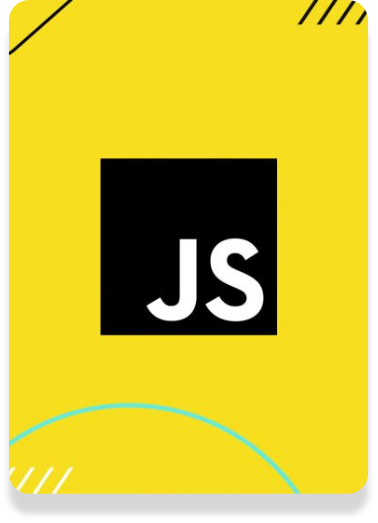
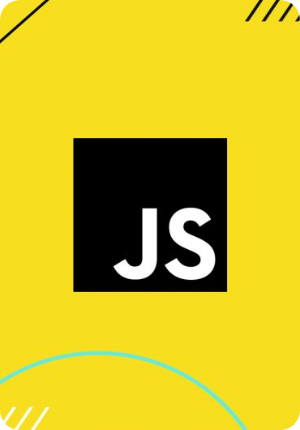
blog posts page

Changed region(s): [[0.0, 0.0, 1.0, 1.0], [0.24, 0.3023, 0.78, 0.6953]]

diff --git a/components/sections/blog/BlogSection.tsx b/components/sections/blog/BlogSection.tsx
@@ -27,12 +27,13 @@ function BlogSection() {
 
   return (
     <section className={styles.container} id="blog" ref={ref}>
-      <div className={styles.inContainer}>
-        <div className={styles.header}>
-          <h1>Blog</h1>
-          <h1>Posts</h1>
-        </div>
+      <div className={styles.header}>
+        <h1>Blog</h1>
+        <h1>Posts</h1>
+      </div>
+      <div className={styles.swipeContainer}>
         <Swiper
+          initialSlide={1}
           effect={"coverflow"}
           grabCursor={true}
           centeredSlides={true}
@@ -47,47 +48,53 @@ function BlogSection() {
           pagination={true}
           modules={[EffectCoverflow, Pagination]}
           className="mySwiper"
-          style={{ paddingBottom: 30 }}
+          style={{ paddingBottom: 70 }}
         >
-          <SwiperSlide style={{ width: "30%", display:"flex", justifyContent:"center", borderRadius:"50%" }}>
+          <SwiperSlide
+            style={{
+              width: "30%",
+              display: "flex",
+              justifyContent: "center",
+              borderRadius: "50%",
+            }}
+          >
             <div className={styles.box}>
               <div style={{ display: "flex", justifyContent: "center" }}>
-                <Image
-                  alt=""
-                  src="/blog/js-banner.png"
-                  width={350}
-                  height={455}
-                />
+                <Image alt="" src="/blog/react.png" width={300} height={400} />
                 <div className={styles.inbox}>
                   <h2>Mastering Javascript</h2>
                 </div>
               </div>
             </div>
           </SwiperSlide>
-          <SwiperSlide style={{ width: "30%", display:"flex", justifyContent:"center", borderRadius:"50%" }}>
+          <SwiperSlide
+            style={{
+              width: "30%",
+              display: "flex",
+              justifyContent: "center",
+              borderRadius: "50%",
+            }}
+          >
             <div className={styles.box}>
               <div style={{ display: "flex", justifyContent: "center" }}>
-                <Image
-                  alt=""
-                  src="/blog/next.png"
-                  width={300}
-                  height={400}
-                />
+                <Image alt="" src="/blog/next.png" width={300} height={400} />
                 <div className={styles.inbox}>
                   <h2>Mastering Javascript</h2>
                 </div>
               </div>
             </div>
           </SwiperSlide>
-          <SwiperSlide style={{ width: "30%", display:"flex", justifyContent:"center", borderRadius:"50%" }}>
+          <SwiperSlide
+            style={{
+              width: "30%",
+              display: "flex",
+              justifyContent: "center",
+              borderRadius: "50%",
+            }}
+          >
             <div className={styles.box}>
               <div style={{ display: "flex", justifyContent: "center" }}>
-                <Image
-                  alt=""
-                  src="/blog/js-banner.png"
-                  width={350}
-                  height={455}
-                />
+                <Image alt="" src="/blog/react.png" width={300} height={400} />
                 <div className={styles.inbox}>
                   <h2>Mastering Javascript</h2>
                 </div>

diff --git a/components/sections/blog/blog.module.css b/components/sections/blog/blog.module.css
@@ -6,11 +6,12 @@
 
   padding-top: 115px;
   margin-bottom: 1px;
+  overflow-y: auto;
   padding-left: 10%;
   padding-right: 10%;
 }
 
-.inContainer {
+.swipeContainer {
   /* background:red; */
   padding: 20px 50px 20px 50px;
   height: 100%;
@@ -19,6 +20,7 @@
 .header {
   display: flex;
   justify-content: center;
+  margin-top: 20px;
 }
 
 .header > h1 {
@@ -45,10 +47,10 @@
 }
 
 .inbox {
-  background: rgba(249, 249, 249, 0.5);
+  background: rgba(255, 255, 255, 0.7);
   position: absolute;
-  bottom: 25px;
-  width: 334px;
+  bottom: 0px;
+  width: 300px;
   height: 60px;
   display: flex;
   align-items: center;
@@ -57,11 +59,38 @@
 }
 
 .inbox h2 {
-  color: #707070;
+  color: black;
 }
 
 @media only screen and (max-width: 767px) {
   .container {
     padding-top: 65px;
+    padding-left: 5px;
+    padding-right: 5px;
+    display: flex;
+    justify-content: center;
+    flex-direction: column;
+  }
+  .swipeContainer {
+    padding: 20px;
+    height: max-content;
+  }
+
+  .box img {
+    width: 200px;
+    height: 300px;
+  }
+  .inbox {
+    border-radius: 0 0 12px 12px;
+    width: 200px;
+    height: 60px;
+  }
+  .inbox h2 {
+    font-size: 1.2rem;
+  }
+  .header {
+    margin-top: 0px;
+    position: relative;
+    bottom: 20px;
   }
 }

diff --git a/app/globals.css b/app/globals.css
@@ -29,6 +29,9 @@
     width: 45px !important;
     height: 45px !important;
   }
+  .swiper{
+    padding-bottom: 60px !important;
+  }
 }
 
 [data-theme="dark"] body {
@@ -66,4 +69,8 @@ a {
 .swiper-3d .swiper-slide-shadow-right, .swiper-3d .swiper-slide-shadow-left{
   border-radius: 20px;
   background-image: none !important;
+}
+
+.swiper-pagination-bullet-active{
+  background-color: var(--orange-color) !important;
 }

diff --git a/components/sections/about/aboutRight.module.css b/components/sections/about/aboutRight.module.css
@@ -7,6 +7,7 @@
   justify-content: center;
   position: relative;
   right: 20px;
+  max-height: 430px;
 }
 
 .mainCircle {
